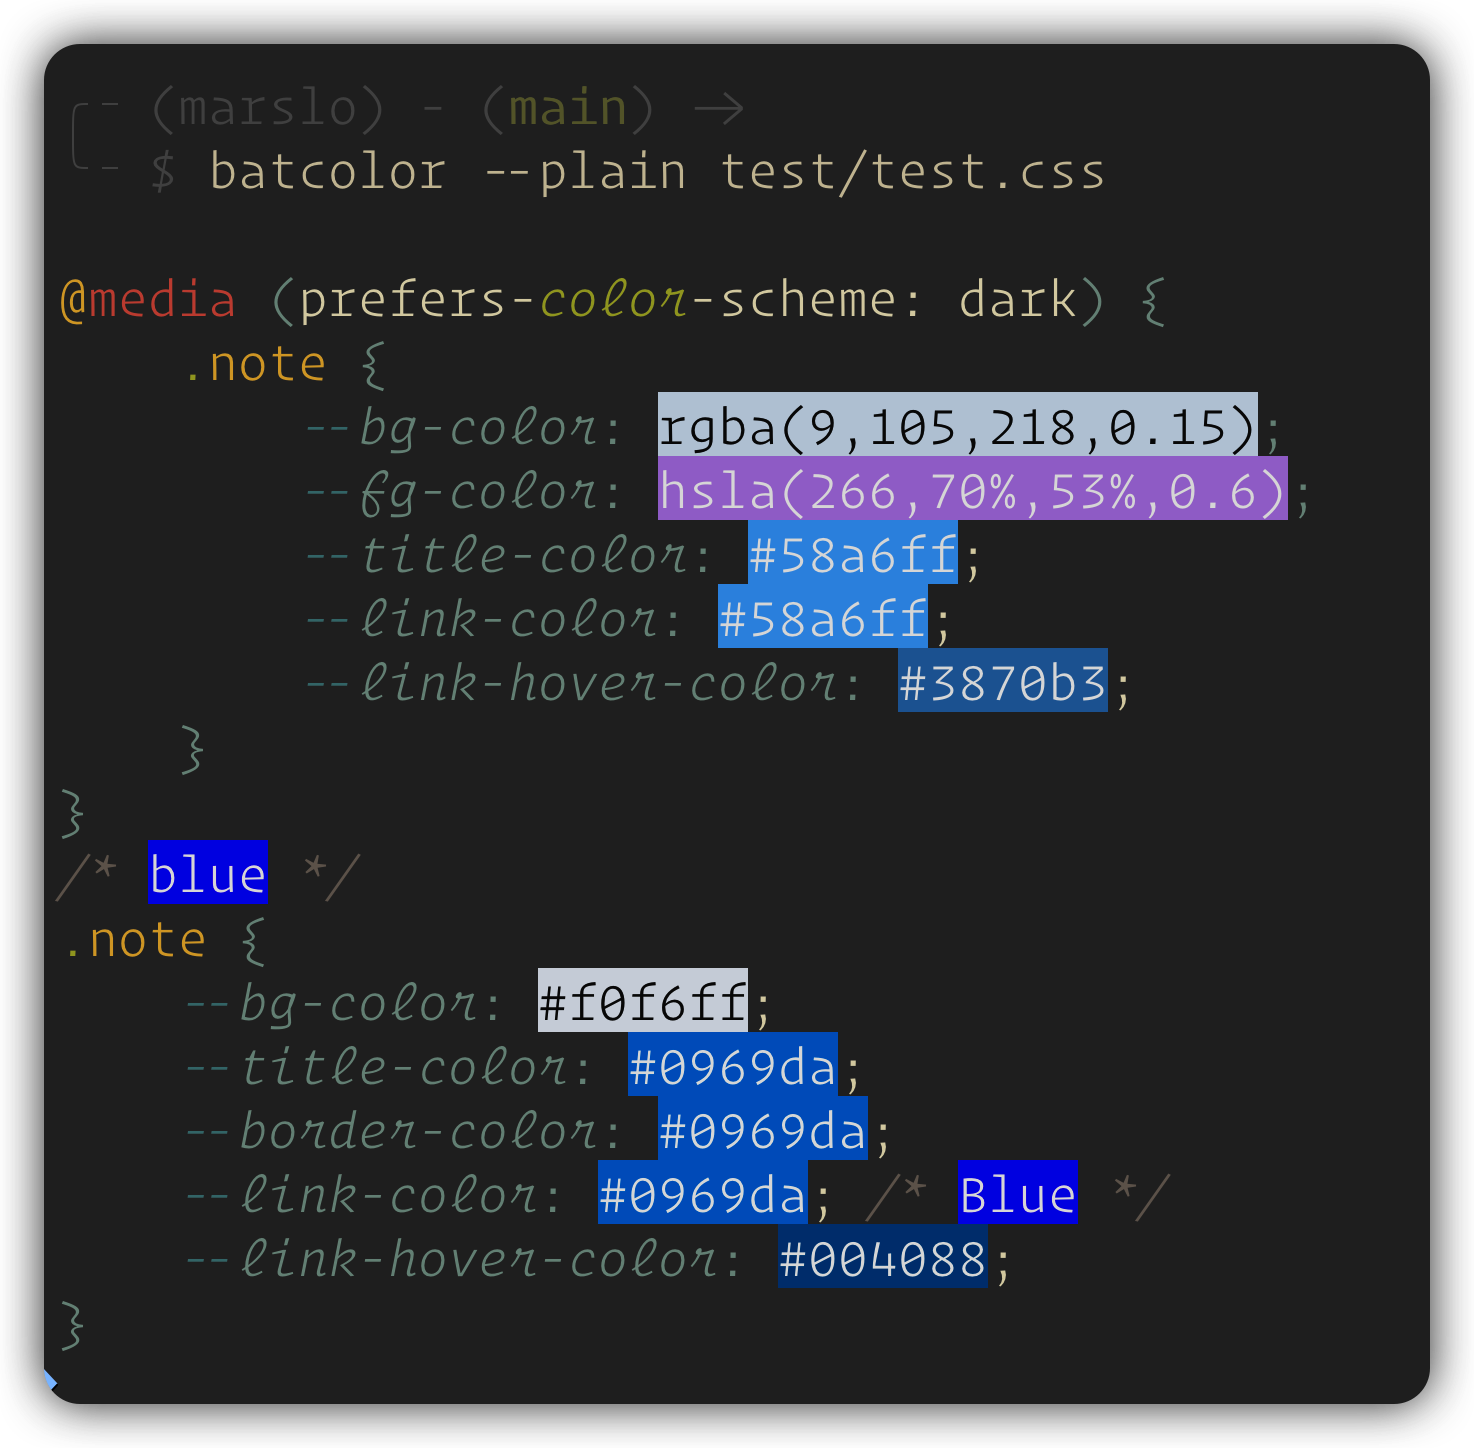
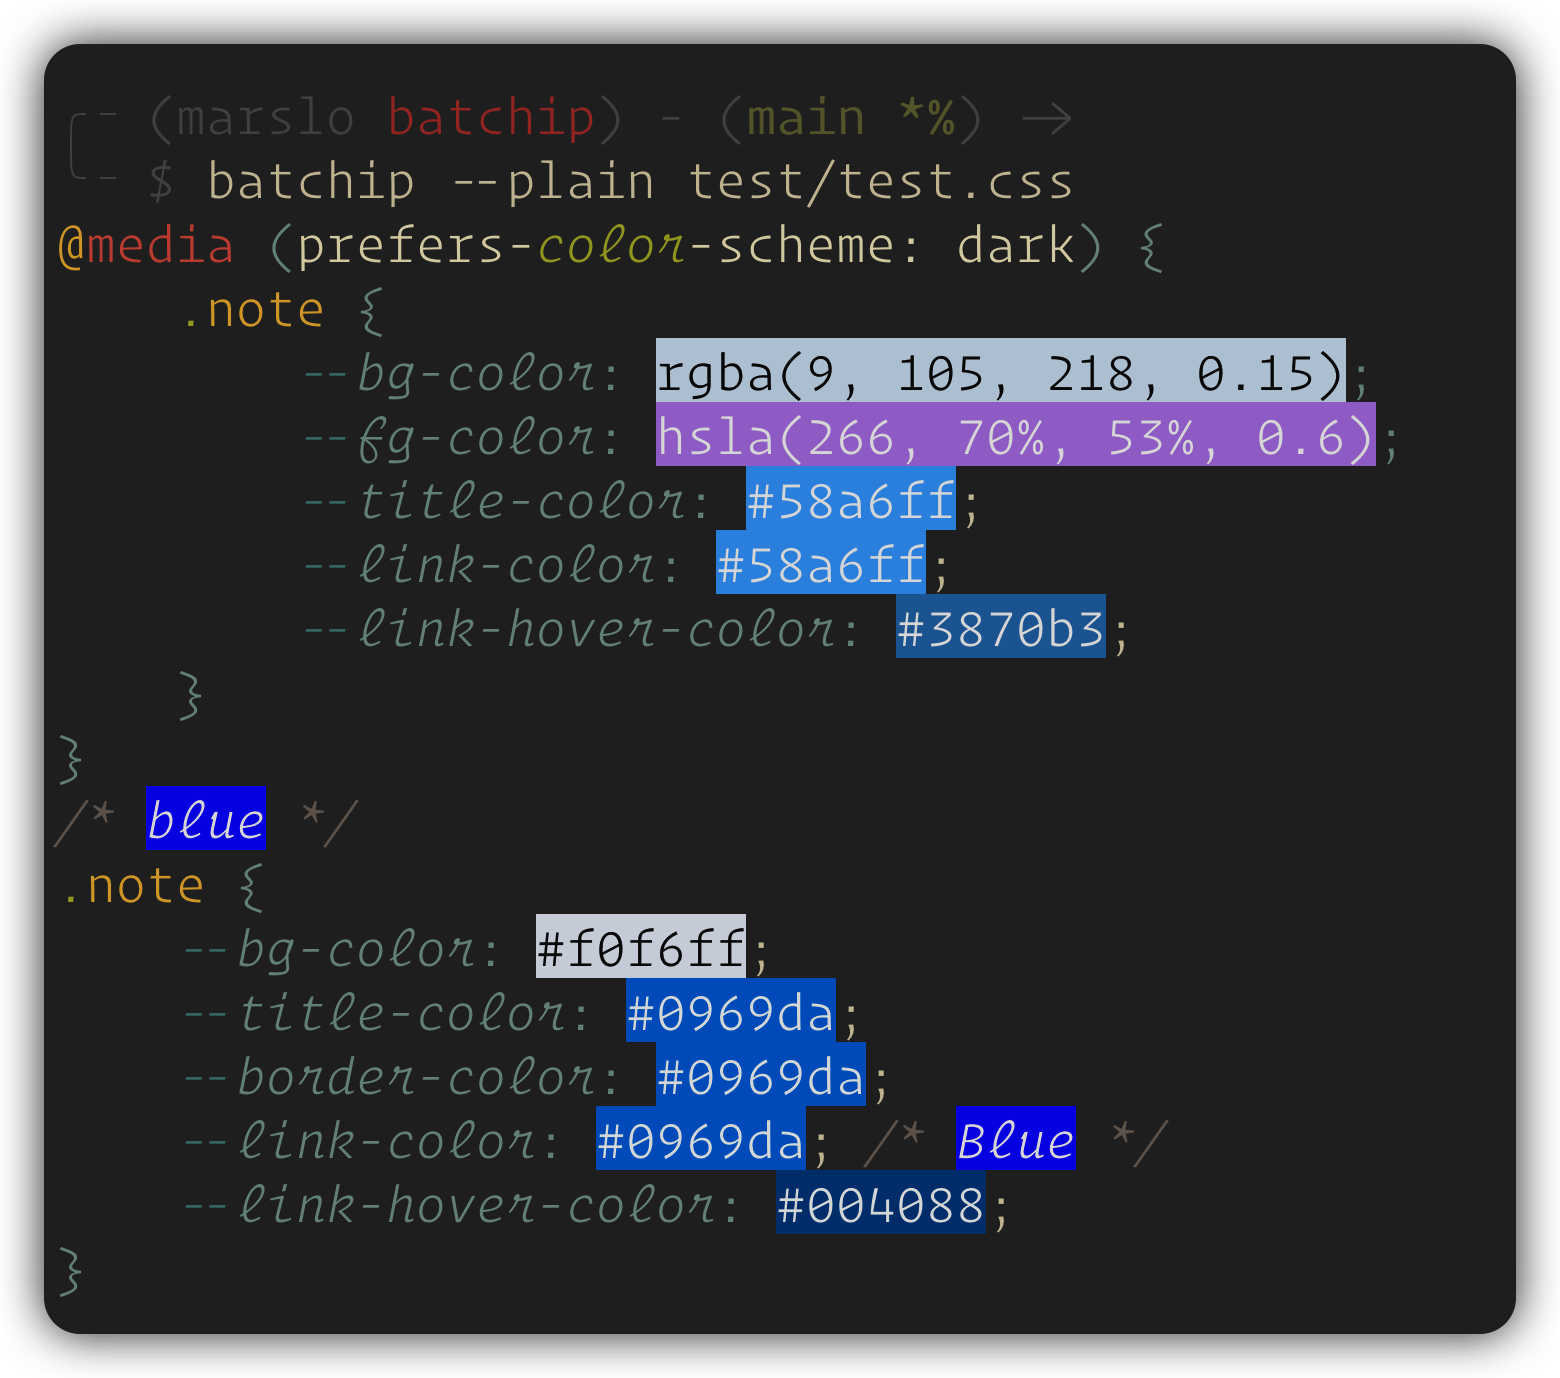
refactor(rename): rename to batchip ( from batcolor )

diff --git a/README.md b/README.md
@@ -1,4 +1,4 @@
-# batcolor
+# batchip
 
 A powerful wrapper for bat that instantly renders CSS color codes (Hex, RGB, HSL, Named Colors) in your terminal using TrueColor, featuring smart contrast (Rec. 709 Luma) and alpha blending
 
@@ -9,42 +9,44 @@ A powerful wrapper for bat that instantly renders CSS color codes (Hex, RGB, HSL
 ![TrueColor](https://img.shields.io/badge/Support-24--bit%20TrueColor-blue)
 ![License](https://img.shields.io/badge/License-MIT-yellow)
 
-`batcolor` is a wrapper around the popular [`bat`](https://github.com/sharkdp/bat) command-line tool. It intercepts the output and **colorizes hex codes, rgb/hsl values, and named CSS colors** directly in your terminal, bringing `vim-hexokinase` or modern IDE color preview capabilities to your CLI.
+`batchip` is a [`bat`](https://github.com/sharkdp/bat) wrapper that renders color swatches — inline, in your terminal.
 
-Unlike simple text-matching scripts, `batcolor` is built with a sophisticated rendering engine that respects human visual perception and terminal limitations.
+Hex codes, RGB/HSL values, and named CSS colors are highlighted in their actual color, bringing the color preview to your CLI.
 
 ---
 
 # Table of Contents
 
-- [batcolor](#batcolor)
-  - [demo](#demo)
-  - [Features](#features)
-  - [Installation](#installation)
-    - [Prerequisites](#prerequisites)
-    - [Setup](#setup)
-  - [Usage](#usage)
-    - [run as command](#run-as-command)
-    - [run as a filter (pipe)](#run-as-a-filter-pipe)
-    - [alias to bat](#alias-to-bat)
-    - [fzf-preview](#fzf-preview)
-- [How it Works (The Math)](#how-it-works-the-math)
+- [Demo](#demo)
+- [Features](#features)
+- [Installation](#installation)
+  - [Prerequisites](#prerequisites)
+  - [Setup](#setup)
+    - [setup bash completion](#setup-bash-completion)
+- [Usage](#usage)
+  - [run as command](#run-as-command)
+  - [run as a filter (pipe)](#run-as-a-filter-pipe)
+  - [alias to bat](#alias-to-bat)
+  - [fzf-preview](#fzf-preview)
+- [others](#others)
+  - [How it Works (The Math)](#how-it-works-the-math)
+  - [related discussion](#related-discussion)
 - [License](#license)
 
 ---
 
-## demo
+# Demo
 
 > [!TIP]
 > - check [`fzf-preview.sh`](https://github.com/marslo/dotfiles/raw/main/.marslo/bin/fzf-preview.sh) for full support
 
-<video src="https://github.com/user-attachments/assets/268202bc-e600-464f-8f4c-0e674f9e444d" width="90%" autoplay loop muted playsinline>batcolor integrate with fzf-preview</video>
-
-![batcolor](./screenshots/batcolor.png)
+|                                                                          VIDEO ( integrate in fzf-preview )                                                                         |               SCREENSHOT              |
+|:-----------------------------------------------------------------------------------------------------------------------------------------------------------------------------------:|:-------------------------------------:|
+| <video src="https://github.com/user-attachments/assets/268202bc-e600-464f-8f4c-0e674f9e444d" width="90%" autoplay loop muted playsinline>batchip integrate with fzf-preview</video> | ![batchip](./screenshots/batchip.png) |
 
 ---
 
-## Features
+# Features
 
 - **Broad Format Support**: Parses and colorizes almost all standard color formats:
   - *Hex**: 3, 4, 6, and 8-bit hex codes (e.g., `#fff`, `#AAbB11aa`, `"A0CC2F"`).
@@ -57,33 +59,26 @@ Unlike simple text-matching scripts, `batcolor` is built with a sophisticated re
   - **TrueColor Isolation**: Uses 24-bit TrueColor (`\033[38;2;...`) for both background and foreground, completely bypassing terminal ANSI palette overrides (like those in Gruvbox, Dracula, etc.) to ensure 100% color accuracy.
   - **Seamless `bat` Integration**: Forwards all arguments (like `--paging`, `-l`) directly to `bat`. It preserves your existing syntax highlighting and layout.
 
-## Installation
+# Installation
 
-### Prerequisites
+## Prerequisites
 Make sure you have the following installed on your system:
 - [x] `bat`
 - [x] `perl` (with `JSON::PP` module, usually pre-installed)
 - [x] `curl` (for initial color-names JSON download)
 
-### Setup
+## Setup
 
 ```bash
-curl -fsSl -O ~/.local/bin/batcolor https://github.com/marslo/batcolor/raw/main/batcolor
-chmod +x ~/.local/bin/batcolor
+curl -fsSl -O ~/.local/bin/batchip https://github.com/marslo/batchip/raw/main/batchip
+chmod +x ~/.local/bin/batchip
 ```
-
-#### setup bash completion
-
-```bash
-# put into ~/.bashrc or ~/.bash_profile
-type -P batcolor >/dev/null && complete -o default -o bashdefault -F _bat batcolor
-```
-
-![batcolor bash completion](./screenshots/batcolor-bash-completion.png)
-
-#### optionally, set `COLOR_NAMES_JSON` environment variable
 
 > [!NOTE]
+> - set `COLOR_NAMES_JSON` environment variable:
+>   ```bash
+>   export COLOR_NAMES_JSON="/path/to/css-color-names.json"
+>   ```
 > - the `css-color-names.json` will download automatically on first run
 
 ```bash
@@ -92,20 +87,29 @@ curl -fsSL -o "${COLOR_NAMES_JSON:-$HOME/.config/css-color-names.json}" \
      https://github.com/bahamas10/css-color-names/raw/master/css-color-names.json
 ```
 
-## Usage
+### setup bash completion
 
-### run as command
+```bash
+# put into ~/.bashrc or ~/.bash_profile
+type -P batchip >/dev/null && complete -o default -o bashdefault -F _bat batchip
+```
+
+![batchip bash completion](./screenshots/batchip-bash-completion.png)
+
+# Usage
+
+## run as command
 ```bash
 # preview a css file with inline colors
-batcolor styles.css
+batchip styles.css
 
 # use bat arguments (e.g., specific language and line numbers)
-batcolor -l javascript index.js
+batchip -l javascript index.js
 ```
 
 ![css](./screenshots/css.png)
 
-### run as a filter (pipe)
+## run as a filter (pipe)
 
 > [!TIP]
 > to preserves syntax highlighting with bat in piped mode, make sure to include `--color=always`
@@ -121,51 +125,69 @@ batcolor -l javascript index.js
 >   ```
 
 ```bash
-# pipe output into batcolor
-cat palette.json | batcolor -l json
+# pipe output into batchip
+cat palette.json | batchip -l json
 
 # using bat --color=always to preserve syntax highlighting in piped mode
-bat --color=always style.css | batcolor
+bat --color=always style.css | batchip
 ```
 
-|                    run with `bat`                    |                       run with `cat`                      |
-|:----------------------------------------------------:|:---------------------------------------------------------:|
-| ![run with bat pipe](./screenshots/batcolor-pip.png) | ![run with cat pipe](./screenshots/batcolor-pipe-cat.png) |
+|                    run with `bat`                   |                      run with `cat`                      |
+|:---------------------------------------------------:|:--------------------------------------------------------:|
+| ![run with bat pipe](./screenshots/batchip-pip.png) | ![run with cat pipe](./screenshots/batchip-cat-pipe.png) |
 
-### alias to bat
+## alias to bat
 ```bash
-alias bat='batcolor'
+alias bat='batchip'
 
 # or
-alias bat='/path/to/batcolor'
+alias bat='/path/to/batchip'
 ```
 
 ![alias](./screenshots/json.png)
 
-### fzf-preview
+## fzf-preview
 
 ```bash
-declare _BAT_CMD=$(type -P batcolor || type -P batcat || type -P bat)
-# define bat options base on your preferences
-if [[ -n "${_BAT_CMD}" ]]; then
+# find bat: batchip > batcat > bat
+declare -a _BAT_CMD=( $(type -P batchip || type -P batcat || type -P bat) )
+# bat options
+if [[ "${#_BAT_CMD[@]}" -eq 1 ]]; then
   _BAT_CMD+=( --style="${BAT_STYLE:-numbers}" --theme='Nord' --color=always --pager=never --line-range :500 )
+else
+  # fallback to cat
+  _BAT_CMD=( type -P cat )
 fi
 
-# and view file with
-"${_BAT_CMD[@]}" -- {}
+# integration in fzf
+fzf --preview "${_BAT_CMD[*]} -- {}"
+# or
+fzf --preview "$(printf '%q ' "${_BAT_CMD[@]}") -- {}"
+# or (bash > 4.4+)
+fzf --preview "${_BAT_CMD[*]@Q} -- {}"
 ```
 
-# How it Works (The Math)
+# others
+
+## How it Works (The Math)
 
 > [!TIP]
-> Why not just use standard ANSI colors?
+> - Why not just use standard ANSI colors?
+>> Standard terminal ANSI bright white (index `97`) or black (index `30`) are often "softened" by terminal color schemes.
+>> When placing text over a vividly colored background, this causes muddy contrast and subpixel anti-aliasing artifacts
 >
-> Standard terminal ANSI bright white (index `97`) or black (index `30`) are often "softened" by terminal color schemes (e.g., turned into off-white or dark gray). When placing text over a vividly colored background, this causes muddy contrast and subpixel anti-aliasing artifacts
+> - [Rec. 601](https://en.wikipedia.org/wiki/Rec._601)
+>> `0.299 * R + 0.587 * G + 0.114 * B`
 
-batcolor solves this by:
+batchip solves this by:
 
-- **Luma Calculation**: Utilizing the `Rec. 709` algorithm (`0.2126 * R + 0.7152 * G + 0.0722 * B`) to simulate human eye sensitivity to green light, ensuring text flips to black exactly when the background becomes subjectively "bright"
+- [**Luma Calculation**](https://en.wikipedia.org/wiki/Luma_(video)): Utilizing the [`Rec. 709`](https://en.wikipedia.org/wiki/Rec._709) algorithm (`0.2126 * R + 0.7152 * G + 0.0722 * B`) to simulate human eye sensitivity to green light, ensuring text flips to black exactly when the background becomes subjectively "bright"
 - **Absolute RGB**: Outputting strict `\033[38;2;255;255;255m` and `\033[38;2;0;0;0m` to force the terminal to render pure contrasting text
+
+## related discussion
+
+- [issues/2808](https://github.com/sharkdp/bat/issues/2808)
+- [issues/2705](https://github.com/sharkdp/bat/issues/2705)
 
 # License
 This project is licensed under the MIT License. See the [LICENSE](LICENSE) file for details.